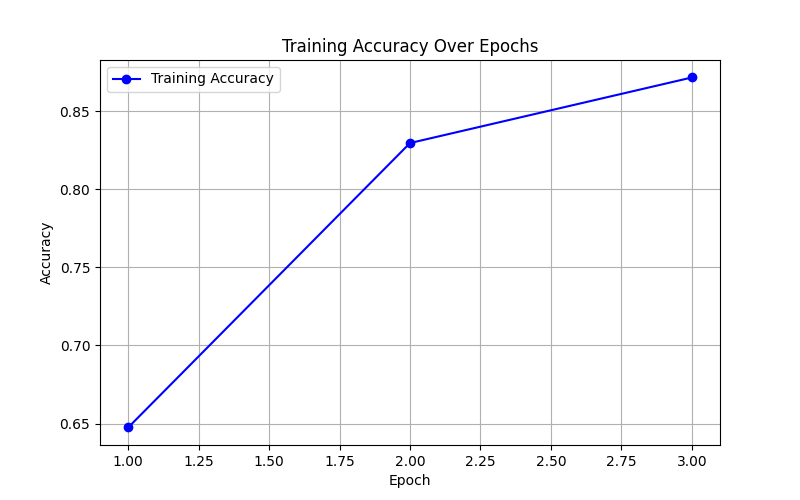
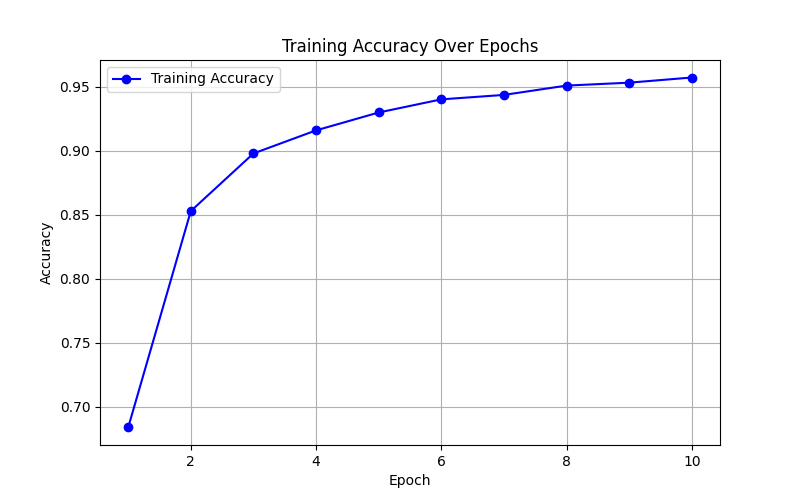
Enhance upload page styling and implement data fetching for accuracy chart

diff --git a/src/pages/diagnosis/Page.jsx b/src/pages/diagnosis/Page.jsx
@@ -1,8 +1,13 @@
 "use client";
 
-import { animate, motion, useMotionValue, useMotionValueEvent, useScroll } from "framer-motion";
+import {
+    animate,
+    motion,
+    useMotionValue,
+    useMotionValueEvent,
+    useScroll
+} from "framer-motion";
 import { useRef, useState } from "react";
-import "./DiagnosisPage.css";
 import { useCookies } from "react-cookie";
 import { FontAwesomeIcon } from "@fortawesome/react-fontawesome";
 import { faClose } from "@fortawesome/free-solid-svg-icons";
@@ -64,91 +69,92 @@ export default function DiagnosisPage() {
 
     return (
         <div className={`${cookies.darkMode ? "bg-gray-900 text-white" : "bg-gray-100 text-black"} w-full h-full flex flex-col items-center align-middle justify-center`}>
-            <div className="p-4 border-white w-fit h-fit flex flex-col items-center gap-4">
-                <h1 className="text-5xl font-bold">Plant Diagnosis Guide</h1>
-                <p className="text-xl">Match the symptoms with treatments for your plants.</p>
+            <h1 className="text-5xl font-bold">Plant Diagnosis Guide</h1>
+            <p className="text-xl mt-4">Match the symptoms with treatments for your plants.</p>
 
-                <div
-                    className="flex flex-row overflow-visible gap-4"
-                >
-                    {diseases.map((disease, index) => (
-                        <motion.div key={index}
-                            className="bg-green-600 w-[25vh] p-5 "
-                            whileHover={{ scale: 1.15 }}
-                            transition={{ type: "spring", stiffness: 50 }} onClick={() => {
-                                setSelectedDisease(disease);
-                                setIsModalOpen(true);
-                            }}>
-                            <div
-                                className="disease-item overflow-visible cursor-pointer"
-                            >
-                                <h3 className="font-bold">{disease.name}</h3>
-                                <p>
-                                    {disease.solution.split('\n').map((line, idx) => (
-                                        <span key={idx}>
-                                            {line}
-                                            <br />
-                                        </span>
-                                    ))}
-                                </p>
-                            </div>
-                        </motion.div>
-                    ))}
-                </div>
+            {/* Scroll-linked progress bar */}
+            <svg id="progress" width="80" height="80" viewBox="0 0 100 100">
+                <circle cx="50" cy="50" r="30" pathLength="1" className="bg" />
+                <motion.circle
+                    cx="50"
+                    cy="50"
+                    r="30"
+                    className="indicator"
+                    style={{ pathLength: scrollXProgress }}
+                />
+            </svg>
 
-                {isModalOpen && selectedDisease && (
-                    <motion.div
-                        initial={{ scale: 0 }}
-                        whileInView={{ scale: 1 }}
-                        transition={{ type: "spring", damping: 10 }}
-                        id="details-modal"
-                        className="fixed max-w-[50vw] max-h-[60vh] w-fit h-fit top-1/4 left-1/4 transform -translate-x-1/2 -translate-y-1/2 text-white bg-gradient-to-tr from-sky-950 to-slate-950 shadow-lg rounded-lg p-6 z-50 border-4 border-doulbe border-stone-600"
+            {/* Disease Cards with Scroll Effect */}
+            <motion.div
+                ref={ref}
+                style={{ maskImage }}
+                className="overflow-x-auto flex flex-nowrap gap-4 px-4 w-[80vw] max-w-[1200px] h-[30vh]"
+            >
+
+                {diseases.map((disease, index) => (
+                    <motion.div key={index}
+                        className="mt-[5vh] bg-gradient-to-r from-emerald-500 to-emerald-700 w-[20vw] h-[20vh] p-5 rounded-lg cursor-pointer flex-shrink-0"
+                        whileHover={{ scale: 1.1 }}
+                        transition={{ type: "spring", stiffness: 50 }}
+                        onClick={() => {
+                            setSelectedDisease(disease);
+                            setIsModalOpen(true);
+                        }}
                     >
-                        <h1 className="text-nowrap text-3xl font-bold">{selectedDisease.name} Overview</h1>
-                        <p className="text-lg text-left text-white">
-                            {selectedDisease.description}
+                        <h3 className="font-bold">{disease.name}</h3>
+                        <p>
+                            {disease.solution.split('\n').map((line, idx) => (
+                                <span key={idx}>{line}<br /></span>
+                            ))}
                         </p>
-
-                        <table className="mt-5">
-                            <tbody>
-                                <tr>
-                                    <td className="font-bold text-1xl p-4 bg-lime-100 rounded-tl-xl text-black">How to Identify</td>
-                                    <td className="text-1xl p-4 w-[50vw] bg-gray-100 rounded-tr-xl text-left text-black">
-                                        {selectedDisease.appearance.split('\n').map((line, idx) => (
-                                            <span key={idx}>
-                                                {line}
-                                                <br />
-                                            </span>
-                                        ))}
-                                    </td>
-                                </tr>
-                                <tr>
-                                    <td className="font-bold text-1xl p-4 bg-lime-100 rounded-bl-xl text-black">How to Fix</td>
-                                    <td className="text-1xl p-4 w-[50vw] bg-gray-100 rounded-br-xl text-left text-black">
-                                        {selectedDisease.fix.split('\n').map((line, idx) => (
-                                            <span key={idx}>
-                                                {line}
-                                                <br />
-                                            </span>
-                                        ))}
-                                    </td>
-                                </tr>
-                            </tbody>
-                        </table>
-
-                        <button
-                            onClick={() => setIsModalOpen(false)}
-                            className="m-2 bg-gray-500 text-white p-4 rounded-full absolute -left-4 -top-4 -translate-x-full -translate-y-full flex flex-row items-center align-middle justify-center w-4 h-4"
-                        >
-                            <motion.span
-                                className=" flex flex-row items-center align-middle justify-center"
-                                initial={{ scale: 1 }}
-                                whileHover={{ scale: 1.2 }}
-                            ><FontAwesomeIcon icon={faClose} /></motion.span>
-                        </button>
                     </motion.div>
-                )}
-            </div>
+                ))}
+            </motion.div>
+
+            {/* Disease Details Modal */}
+            {isModalOpen && selectedDisease && (
+                <motion.div
+                    initial={{ scale: 0 }}
+                    animate={{ scale: 1 }}
+                    transition={{ type: "spring", damping: 10 }}
+                    className="fixed max-w-[50vw] max-h-[60vh] w-fit h-fit top-1/4 left-1/4 transform -translate-x-1/2 -translate-y-1/2 text-white bg-gradient-to-tr from-sky-950 to-slate-950 shadow-lg rounded-lg p-6 z-50 border-4 border-double border-stone-600"
+                >
+                    <h1 className="text-3xl font-bold">{selectedDisease.name} Overview</h1>
+                    <p className="text-lg text-left">{selectedDisease.description}</p>
+
+                    <table className="mt-5">
+                        <tbody>
+                            <tr>
+                                <td className="font-bold p-4 bg-lime-100 text-black rounded-tl-xl">How to Identify</td>
+                                <td className="p-4 w-[50vw] bg-gray-100 text-left text-black rounded-tr-xl">
+                                    {selectedDisease.appearance.split('\n').map((line, idx) => (
+                                        <span key={idx}>{line}<br /></span>
+                                    ))}
+                                </td>
+                            </tr>
+                            <tr>
+                                <td className="font-bold p-4 bg-lime-100 text-black rounded-bl-xl">How to Fix</td>
+                                <td className="p-4 w-[50vw] bg-gray-100 text-left text-black rounded-br-xl">
+                                    {selectedDisease.fix.split('\n').map((line, idx) => (
+                                        <span key={idx}>{line}<br /></span>
+                                    ))}
+                                </td>
+                            </tr>
+                        </tbody>
+                    </table>
+
+                    <button
+                        onClick={() => setIsModalOpen(false)}
+                        className="m-2 bg-gray-500 text-white p-4 rounded-full absolute -left-4 -top-4 -translate-x-full -translate-y-full"
+                    >
+                        <motion.span whileHover={{ scale: 1.2 }}>
+                            <FontAwesomeIcon icon={faClose} />
+                        </motion.span>
+                    </button>
+                </motion.div>
+            )}
+
+            <StyleSheet />
         </div>
     );
 }
@@ -164,10 +170,52 @@ function useScrollOverflowMask(scrollXProgress) {
             animate(maskImage, `linear-gradient(90deg, #000, #000 0%, #000 80%, transparent)`);
         } else if (value === 1) {
             animate(maskImage, `linear-gradient(90deg, transparent, #000 20%, #000 100%, #000)`);
-        } else if (scrollXProgress.getPrevious() === 0 || scrollXProgress.getPrevious() === 1) {
+        } else {
             animate(maskImage, `linear-gradient(90deg, transparent, #000 20%, #000 80%, transparent)`);
         }
     });
 
     return maskImage;
+}
+
+// Styles
+function StyleSheet() {
+    return (
+        <style>{`
+            #progress {
+                position: absolute;
+                top: -65px;
+                left: -15px;
+                transform: rotate(-90deg);
+            }
+
+            .bg { stroke: var(--layer); }
+
+            #progress circle {
+                stroke-dashoffset: 0;
+                stroke-width: 10%;
+                fill: none;
+            }
+
+            .indicator { stroke: var(--accent); }
+
+            .overflow-x-scroll {
+                display: flex;
+                list-style: none;
+                padding: 20px 0;
+                margin: 0 auto;
+                gap: 20px;
+            }
+
+            ::-webkit-scrollbar {
+                height: 5px;
+                width: 5px;
+                background: #fff3;
+            }
+
+            ::-webkit-scrollbar-thumb {
+                background: var(--accent);
+            }
+        `}</style>
+    );
 }

diff --git a/src/pages/results/Chart.jsx b/src/pages/results/Chart.jsx
@@ -1,6 +1,7 @@
 import { Line } from "react-chartjs-2";
 import { Chart as ChartJS, CategoryScale, LinearScale, PointElement, LineElement, Title, Tooltip, Legend } from "chart.js";
-import { useState } from "react";
+import { useEffect, useState } from "react";
+import axios from "axios";
 
 // dont touch this, everything will break
 ChartJS.register(CategoryScale, LinearScale, PointElement, LineElement, Title, Tooltip, Legend);
@@ -8,7 +9,20 @@ ChartJS.register(CategoryScale, LinearScale, PointElement, LineElement, Title, T
 export default function Chart() {
     const [data, setData] = useState([64.74, 82.95, 87.15]);
 
-    //TODO: load the data from the server
+    useEffect(() => {
+        async function fetchData() {
+            try {
+                //TODO: replace this with correct URL
+                const response = await axios.get("/api/accuracy");
+                if (response.data) {
+                    setData(response.data);
+                }
+            } catch (error) {
+                console.error(error);
+            }
+        }
+        fetchData();
+    }, []);
 
     return (
         <Line

diff --git a/src/pages/upload/Page.jsx b/src/pages/upload/Page.jsx
@@ -65,13 +65,13 @@ export default function UploadPage() {
 
     return (
         <motion.div
-            className={`p-6 ${cookies.darkMode ? "bg-gray-900 text-white" : "bg-gray-100 text-black"} shadow-lg rounded-2xl w-3/5 h-2/5 mx-auto flex flex-col justify-center items-center mt-[15vh] border border-green-300`}
+            className={`p-6 ${cookies.darkMode ? "bg-gray-900 text-white" : "bg-gray-100 text-black"} shadow-lg rounded-2xl w-3/5 h-2/5 mx-auto flex flex-col justify-center items-center mt-[15vh] border border-blue-300`}
             initial={{ opacity: 0, y: -20 }}
             animate={{ opacity: 1, y: 0 }}
             transition={{ duration: 0.5 }}
         >
             <motion.h1
-                className="text-2xl font-bold mb-4 text-green-800"
+                className="text-2xl font-bold mb-4 text-blue-800"
                 initial={{ opacity: 0 }}
                 animate={{ opacity: 1 }}
                 transition={{ delay: 0.2 }}
